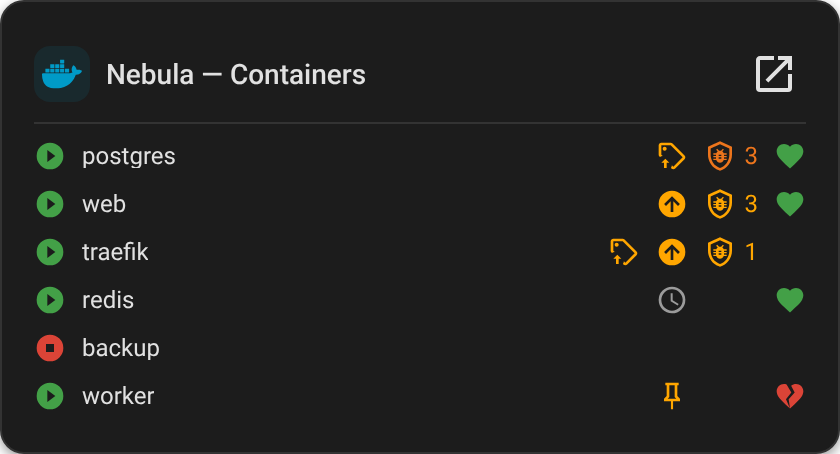
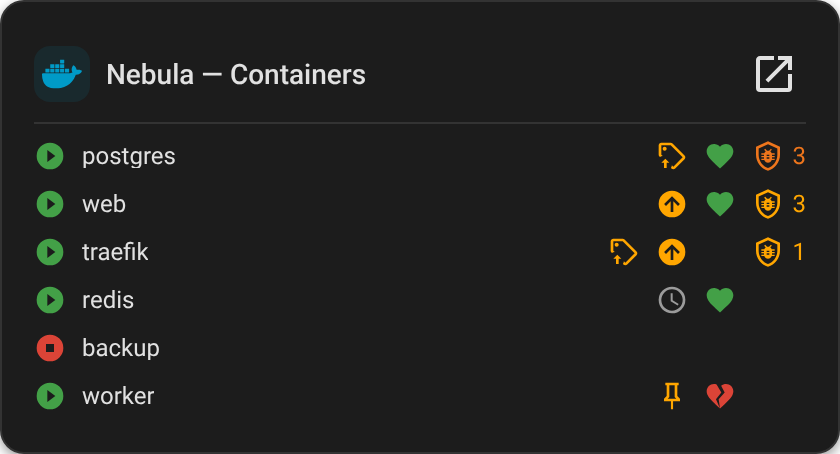
Vulnerabilities after health; name Dockhands by their instance's name
Containers card: the vulnerabilities column follows health, since any
container can have findings and only some have a health check.

getInstanceName() names a Dockhand by its instance device's name, which
the user controls (renaming the device, or the integration entry, whose
title ha-dockhand 2.2 names it after), falling back to its host without
one. Global schedules from several Dockhands and the dashboard editor's
instance picker use it instead of the host. README asks users with
several Dockhands to name them (dockhand1, dockhand2).

Claude-Session: https://claude.ai/code/session_01Y5FKGs81VJ4pZCobYPMcHj

diff --git a/src/dockhand-schedules-card/card.ts b/src/dockhand-schedules-card/card.ts
@@ -5,10 +5,10 @@ import { state } from 'lit/decorators.js';
 import { fireEvent, type LovelaceCard, type LovelaceCardEditor } from 'custom-card-helpers';
 
 import type { HomeAssistant, LovelaceGridOptions } from '../common/ha-types';
-import { getEnvironmentDevices, getScheduleDevicesForEnvironment, getGlobalScheduleDevices, getRepresentativeEntityId, type EnvironmentDeviceOption, getScheduleName } from '../common/device-utils';
+import { getEnvironmentDevices, getScheduleDevicesForEnvironment, getGlobalScheduleDevices, getRepresentativeEntityId, type EnvironmentDeviceOption, getScheduleName, getInstanceName } from '../common/device-utils';
 import { resolveCardName, multiEnvCardNameFallback } from '../common/card-name';
 import { resolveScheduleEntities } from '../common/entity-resolver';
-import { getDockhandBaseUrl, getInstanceLabel, formatRelativeTime } from '../common/format';
+import { getDockhandBaseUrl, formatRelativeTime } from '../common/format';
 import { stateLabel } from '../common/state-label';
 import { renderSettingsLink, renderIcon, onKeydownActivate } from '../common/icon';
 import { resolveIncludedOrdered, groupRowsByEnvironment, resolveEffectiveGroupBy } from '../common/environment-scope';
@@ -133,7 +133,8 @@ export function sortScheduleRows(rows: ScheduleRow[], sortBy: ScheduleSortBy): S
 
 /** Pure decision logic behind ScheduleRow.instanceLabel: given every global
  * schedule device's own id and via_device_id (its parent schedules_hub),
- * plus a way to read a hub device's configuration_url, returns a Map of
+ * plus a way to name a hub's Dockhand (getInstanceName: the instance's
+ * name, which the user controls), returns a Map of
  * schedule-device-id -> instance label — populated only when the global
  * schedules actually span more than one hub (see ScheduleRow.instanceLabel
  * for why an unambiguous single-instance case stays unlabeled). Exported
@@ -144,7 +145,7 @@ export function sortScheduleRows(rows: ScheduleRow[], sortBy: ScheduleSortBy): S
  */
 export function resolveGlobalInstanceLabels(
   globalDevices: { id: string; via_device_id: string | null }[],
-  getHubConfigurationUrl: (hubId: string) => string | null | undefined
+  instanceName: (hubId: string) => string | null | undefined
 ): Map<string, string> {
   const hubIdByDeviceId = new Map<string, string>();
   for (const device of globalDevices) {
@@ -154,7 +155,7 @@ export function resolveGlobalInstanceLabels(
 
   const labels = new Map<string, string>();
   for (const [deviceId, hubId] of hubIdByDeviceId) {
-    const label = getInstanceLabel(getHubConfigurationUrl(hubId));
+    const label = instanceName(hubId);
     if (label) labels.set(deviceId, label);
   }
   return labels;
@@ -344,7 +345,10 @@ export class DockhandSchedulesCard extends LitElement implements LovelaceCard {
     // id) when the global schedules actually span more than one instance.
     const globalInstanceLabels = resolveGlobalInstanceLabels(
       globalDevices.map((d) => ({ id: d.id, via_device_id: d.via_device_id })),
-      (hubId) => this._hass!.devices[hubId]?.configuration_url
+      (hubId) => {
+        const hub = this._hass!.devices[hubId];
+        return hub ? getInstanceName(this._hass!, hub) : null;
+      }
     );
 
     const rows: ScheduleRow[] = [];

diff --git a/src/dockhand-schedules-card/card.test.ts b/src/dockhand-schedules-card/card.test.ts
@@ -196,8 +196,8 @@ describe('resolveGlobalInstanceLabels', () => {
       { id: 'sched_1', via_device_id: 'hub_a' },
       { id: 'sched_2', via_device_id: 'hub_a' }
     ];
-    const urls = { hub_a: 'http://dockhand.local:3000' };
-    expect(resolveGlobalInstanceLabels(devices, (hubId) => urls[hubId as keyof typeof urls])).toEqual(new Map());
+    const names = { hub_a: 'dockhand1' };
+    expect(resolveGlobalInstanceLabels(devices, (hubId) => names[hubId as keyof typeof names])).toEqual(new Map());
   });
 
   it('labels every schedule once global schedules span more than one instance', () => {
@@ -206,22 +206,22 @@ describe('resolveGlobalInstanceLabels', () => {
       { id: 'sched_2', via_device_id: 'hub_b' },
       { id: 'sched_3', via_device_id: 'hub_a' }
     ];
-    const urls = { hub_a: 'http://192.168.1.50:3000', hub_b: 'https://dockhand.example.com' };
-    const labels = resolveGlobalInstanceLabels(devices, (hubId) => urls[hubId as keyof typeof urls]);
-    expect(labels.get('sched_1')).toBe('192.168.1.50:3000');
-    expect(labels.get('sched_2')).toBe('dockhand.example.com');
-    expect(labels.get('sched_3')).toBe('192.168.1.50:3000');
+    const names = { hub_a: 'dockhand1', hub_b: 'dockhand2' };
+    const labels = resolveGlobalInstanceLabels(devices, (hubId) => names[hubId as keyof typeof names]);
+    expect(labels.get('sched_1')).toBe('dockhand1');
+    expect(labels.get('sched_2')).toBe('dockhand2');
+    expect(labels.get('sched_3')).toBe('dockhand1');
   });
 
-  it('leaves a schedule unlabeled if its hub has no via_device_id or no resolvable configuration_url, without dropping the others', () => {
+  it('leaves a schedule unlabeled if its hub has no via_device_id or no name, without dropping the others', () => {
     const devices = [
       { id: 'sched_1', via_device_id: 'hub_a' },
       { id: 'sched_2', via_device_id: 'hub_b' },
       { id: 'orphan', via_device_id: null }
     ];
-    const urls = { hub_a: 'http://192.168.1.50:3000', hub_b: null };
-    const labels = resolveGlobalInstanceLabels(devices, (hubId) => urls[hubId as keyof typeof urls]);
-    expect(labels.get('sched_1')).toBe('192.168.1.50:3000');
+    const names = { hub_a: 'dockhand1', hub_b: null };
+    const labels = resolveGlobalInstanceLabels(devices, (hubId) => names[hubId as keyof typeof names]);
+    expect(labels.get('sched_1')).toBe('dockhand1');
     expect(labels.has('sched_2')).toBe(false);
     expect(labels.has('orphan')).toBe(false);
   });

diff --git a/src/common/device-utils.test.ts b/src/common/device-utils.test.ts
@@ -297,3 +297,26 @@ describe('defaultCardName', () => {
     expect(defaultCardName(hass, makeDevice({ id: 'x', identifiers: [], name: 'Odd' }))).toBe('Odd');
   });
 });
+
+describe('getInstanceName', () => {
+  const env = makeDevice({ id: 'env', config_entry_id: 'entry1', identifiers: [['dockhand', 'entry1_env_1']], configuration_url: 'http://dockhand.local:3000/settings' });
+  const instance = (overrides: Partial<Parameters<typeof makeDevice>[0]> = {}) =>
+    makeDevice({ id: 'inst', config_entry_id: 'entry1', identifiers: [['dockhand', 'entry1_instance']], name: 'Dockhand (dockhand.local:3000)', ...overrides });
+
+  it('is the Dockhand instance device’s name, which follows the integration entry’s title', async () => {
+    const { getInstanceName } = await import('./device-utils');
+    expect(getInstanceName(makeHass({ devices: [env, instance({ name: 'dockhand1' })] }), env)).toBe('dockhand1');
+  });
+
+  it('prefers a name the user gave the device', async () => {
+    const { getInstanceName } = await import('./device-utils');
+    expect(getInstanceName(makeHass({ devices: [env, instance({ name_by_user: 'Basement' })] }), env)).toBe('Basement');
+  });
+
+  it('falls back to the host without an instance device (an older ha-dockhand), or for another entry’s', async () => {
+    const { getInstanceName } = await import('./device-utils');
+    expect(getInstanceName(makeHass({ devices: [env] }), env)).toBe('dockhand.local:3000');
+    const other = makeDevice({ id: 'inst2', config_entry_id: 'entry2', identifiers: [['dockhand', 'entry2_instance']], name: 'dockhand2' });
+    expect(getInstanceName(makeHass({ devices: [env, other] }), env)).toBe('dockhand.local:3000');
+  });
+});

diff --git a/src/common/device-utils.ts b/src/common/device-utils.ts
@@ -1,5 +1,6 @@
 import { compareText } from './compare';
 import { DOCKHAND_DOMAIN } from './const';
+import { getInstanceLabel } from './format';
 import type { DeviceRegistryEntry, HomeAssistant } from './ha-types';
 import { entitiesOnDevice } from './registry-index';
 
@@ -35,6 +36,23 @@ export function getEnvironmentDevices(hass: HomeAssistant): EnvironmentDeviceOpt
   }
 
   return matches.sort((a, b) => compareText(a.name, b.name));
+}
+
+/**
+ * What to call the Dockhand a device belongs to, for things tied to a
+ * Dockhand rather than an environment (global schedules, the dashboard's
+ * instance picker): its instance device's name (identifier
+ * `<entry_id>_instance`), which is the user's own if they renamed the
+ * device, else the integration entry's title once they've renamed that
+ * (ha-dockhand 2.2+), else "Dockhand (host)". Without that device (an
+ * older ha-dockhand), the host of the device's `configuration_url`.
+ */
+export function getInstanceName(hass: HomeAssistant, device: DeviceRegistryEntry): string | null {
+  const entry = device.config_entry_id;
+  const instance = entry
+    ? Object.values(hass.devices ?? {}).find((d) => d.identifiers.some(([domain, id]) => domain === DOCKHAND_DOMAIN && id === `${entry}_instance`))
+    : undefined;
+  return instance?.name_by_user || instance?.name || getInstanceLabel(device.configuration_url);
 }
 
 export function isEnvironmentDevice(device: DeviceRegistryEntry): boolean {

diff --git a/src/dockhand-strategy/strategy.dom.test.ts b/src/dockhand-strategy/strategy.dom.test.ts
@@ -395,9 +395,13 @@ describe('Dockhand dashboard settings', () => {
     el!.remove();
     const hass = harnessHass();
     hass.devices.env_3 = { ...hass.devices.env_3, config_entry_id: 'other' };
+    // The other Dockhand's instance device, named after its entry; the
+    // harness's own has none, so it's named by its host.
+    hass.devices.inst_other = { ...hass.devices.env_3, id: 'inst_other', identifiers: [['dockhand', 'other_instance']], name: 'dockhand2', name_by_user: null };
     const { seen } = await mount({}, hass);
-    const form = root().querySelector('ha-form:not(.badges)') as HTMLElement & { schema: { selector: { select: { options: { value: string }[] } } }[] };
+    const form = root().querySelector('ha-form:not(.badges)') as HTMLElement & { schema: { selector: { select: { options: { value: string; label: string }[] } } }[] };
     expect(form.schema[0].selector.select.options.map((o) => o.value)).toEqual(['', hass.devices.env_1.config_entry_id, 'other']);
+    expect(form.schema[0].selector.select.options.slice(1).map((o) => o.label)).toEqual(['dockhand.local:3000', 'dockhand2']);
     form.dispatchEvent(new CustomEvent('value-changed', { detail: { value: { config_entry_id: 'other' } } }));
     expect(seen.pop()).toEqual({ type: 'custom:dockhand', config_entry_id: 'other' });
     form.dispatchEvent(new CustomEvent('value-changed', { detail: { value: { config_entry_id: '' } } }));

diff --git a/src/dockhand-strategy/editor.ts b/src/dockhand-strategy/editor.ts
@@ -14,8 +14,8 @@ import { ref } from 'lit/directives/ref.js';
 import { html as staticHtml, unsafeStatic } from 'lit/static-html.js';
 import { fireEvent } from 'custom-card-helpers';
 import type { HomeAssistant } from '../common/ha-types';
-import { getEnvironmentDevices } from '../common/device-utils';
-import { getInstanceLabel } from '../common/format';
+import { getEnvironmentDevices, getInstanceName } from '../common/device-utils';
+import {  } from '../common/format';
 import { t, type EditorTranslationKey } from '../common/i18n-editor';
 import { editorFormStyles, sortableRowStyles } from '../common/editor-styles';
 import { renderEnvironmentOrderSection } from '../common/environment-scope-editor';
@@ -375,7 +375,7 @@ export class DockhandDashboardStrategyEditor extends LitElement {
     for (const env of getEnvironmentDevices(hass)) {
       const device = hass.devices?.[env.deviceId];
       if (device?.config_entry_id && !instances.has(device.config_entry_id)) {
-        instances.set(device.config_entry_id, getInstanceLabel(device.configuration_url) ?? device.config_entry_id);
+        instances.set(device.config_entry_id, getInstanceName(hass, device) ?? device.config_entry_id);
       }
     }
     if (instances.size < 2) return nothing;

diff --git a/src/dockhand-containers-card/card.ts b/src/dockhand-containers-card/card.ts
@@ -137,7 +137,9 @@ export function groupContainerRows(
 
 /** Right-hand row details in their order on a row; each shown one is a
  * column. Environment and tags stay with the name, on its left. */
-const COLUMN_ORDER = ['updates', 'vulnerabilities', 'health', 'cpu', 'memory'] as const;
+// Vulnerabilities after health: any container can have findings, only
+// some have a health check, so the sparser column sits further in.
+const COLUMN_ORDER = ['updates', 'health', 'vulnerabilities', 'cpu', 'memory'] as const;
 type ColumnKey = (typeof COLUMN_ORDER)[number] | 'controls';
 
 function hasDetail(row: ContainerRow, key: Exclude<ColumnKey, 'controls'>): boolean {

diff --git a/src/dockhand-containers-card/types.ts b/src/dockhand-containers-card/types.ts
@@ -16,7 +16,7 @@ export type ContainersCardBadge = 'health' | 'updates' | 'vulnerabilities' | 'cp
 
 /** The details in their order on a row (the name's side, then the
  * columns), which the editor lists them in. */
-export const CONTAINERS_BADGE_ORDER: readonly ContainersCardBadge[] = ['environment', 'tags', 'updates', 'vulnerabilities', 'health', 'cpu', 'memory', 'controls'];
+export const CONTAINERS_BADGE_ORDER: readonly ContainersCardBadge[] = ['environment', 'tags', 'updates', 'health', 'vulnerabilities', 'cpu', 'memory', 'controls'];
 
 export const DEFAULT_CONTAINERS_BADGES: ContainersCardBadge[] = ['health', 'updates', 'cpu', 'memory', 'tags'];
 

diff --git a/src/render.dom.test.ts b/src/render.dom.test.ts
@@ -156,7 +156,7 @@ describe('Aligned list columns', () => {
 
 describe('List card editors', () => {
   it.each([
-    ['containers', ['environment', 'tags', 'updates', 'vulnerabilities', 'health', 'cpu', 'memory', 'controls']],
+    ['containers', ['environment', 'tags', 'updates', 'health', 'vulnerabilities', 'cpu', 'memory', 'controls']],
     ['stacks', ['type', 'environment', 'tags', 'updates', 'container_count', 'cpu', 'memory', 'controls']],
     ['schedules', ['environment', 'next_run', 'controls']]
   ])('list the %s card’s row details in their order on a row', async (card, order) => {

diff --git a/docs/backlog.md b/docs/backlog.md
@@ -19,7 +19,7 @@ Ideas and gaps already evaluated and deliberately deferred or rejected, and why 
 
 ## Cross-card
 
-- **Telling apart environments of the same name in two Dockhands.** Tried 2026-11-23 with each Dockhand's host in a pill wherever such a name showed, and reverted: the host says little to a person, and it added upkeep across every card for a rare setup. The README asks for distinct names instead. If it's ever needed, label by the integration entry's title (which a user can name `dockhand1`, `dockhand2`) rather than an address; the cards would need it from ha-dockhand, since `hass` doesn't carry entry titles.
+- **Telling apart environments of the same name in two Dockhands.** Tried 2026-11-23 with each Dockhand's host in a pill wherever such a name showed, and reverted: the host says little to a person, and it added upkeep across every card for a rare setup. The README asks for distinct names instead. If it's ever needed, label by the Dockhand's name (`getInstanceName()`, which follows the entry's title), as global schedules are, rather than an address.
 - **A section strategy per environment** for the Dockhand dashboard (§22): Home Assistant after 2026.8 lets a registered section strategy be picked under "Automatic section", with a preview (`getStubConfig`) and an editor (`getConfigElement`, needed there); 2026.8 has no picker, so it would be YAML-only until the minimum moves. Set aside: with settings it comes close to an Overview card limited to one environment, which already works in any dashboard.
 - **Free layout in the Dockhand dashboard** (dragging its sections and cards around): a strategy writes the layout each time, so that's what **Take control** is for. Its settings cover which sections, their order and their settings.
 

diff --git a/docs/architecture.md b/docs/architecture.md
@@ -233,7 +233,7 @@ Schedules resolve through `via_device_id`, an HA-assigned unique id, which is be
 
 ## 20. Naming a Dockhand instance: the `configuration_url` host
 
-To tell a person which instance something belongs to (the Schedules card's global schedules when several instances have them), use `getInstanceLabel()` (`common/format.ts`): the host of the device's `configuration_url`, which every ha-dockhand device carries. Environment names and numbers can repeat across instances and an instance has no single environment to name it by; two entries share a host only if they point at the same server.
+To tell a person which instance something belongs to (the Schedules card's global schedules when several instances have them, the dashboard's instance picker), use `getInstanceName()` (`common/device-utils.ts`): the name of the entry's instance device (`<entry_id>_instance`), which the user controls (renaming the device, or the entry, whose title ha-dockhand 2.2+ names it after), falling back to `getInstanceLabel()` (`common/format.ts`), the host of the device's `configuration_url`, without one. Environment names and numbers can repeat across instances and an instance has no single environment to name it by; two entries share a host only if they point at the same server.
 
 Two Dockhands can each have an environment of the same name, and the cards don't try to tell them apart: an environment's own address is unique but not readable, and a Dockhand's host says little more. The docs say to give environments distinct names instead (README, "Several Dockhand instances").
 

diff --git a/README.md b/README.md
@@ -163,6 +163,8 @@ An overview of your environments, with vulnerabilities, updates and schedules be
 
 The cards and the Dockhand dashboard work across every Dockhand you've added to the integration. They show environments by name, so if two Dockhands each have an environment of the same name (both called `local`, say), the cards can't tell them apart: give them distinct names in Dockhand.
 
+What belongs to a Dockhand rather than an environment (the Schedules card's global schedules, the dashboard's choice of instance) is labelled with the Dockhand's name. Give each one a useful name, like `dockhand1` and `dockhand2`, by renaming its entry under **Settings → Devices & services → Dockhand** (needs ha-dockhand 2.2 or later) or its **Dockhand** device; otherwise it shows the Dockhand's address.
+
 ## Translations
 
 Every card and editor is translated into the same languages as the integration: German, Spanish, French, Italian, Norwegian, Dutch, Polish, Portuguese, Swedish and Chinese (Simplified), alongside English, following your Home Assistant language. Numbers and times ("5 min ago") follow your language and number format too. Each language is its own small file beside the cards, so a dashboard only loads the one it shows. Translations are machine-generated; corrections from native speakers are welcome — see [CONTRIBUTING.md](CONTRIBUTING.md).
